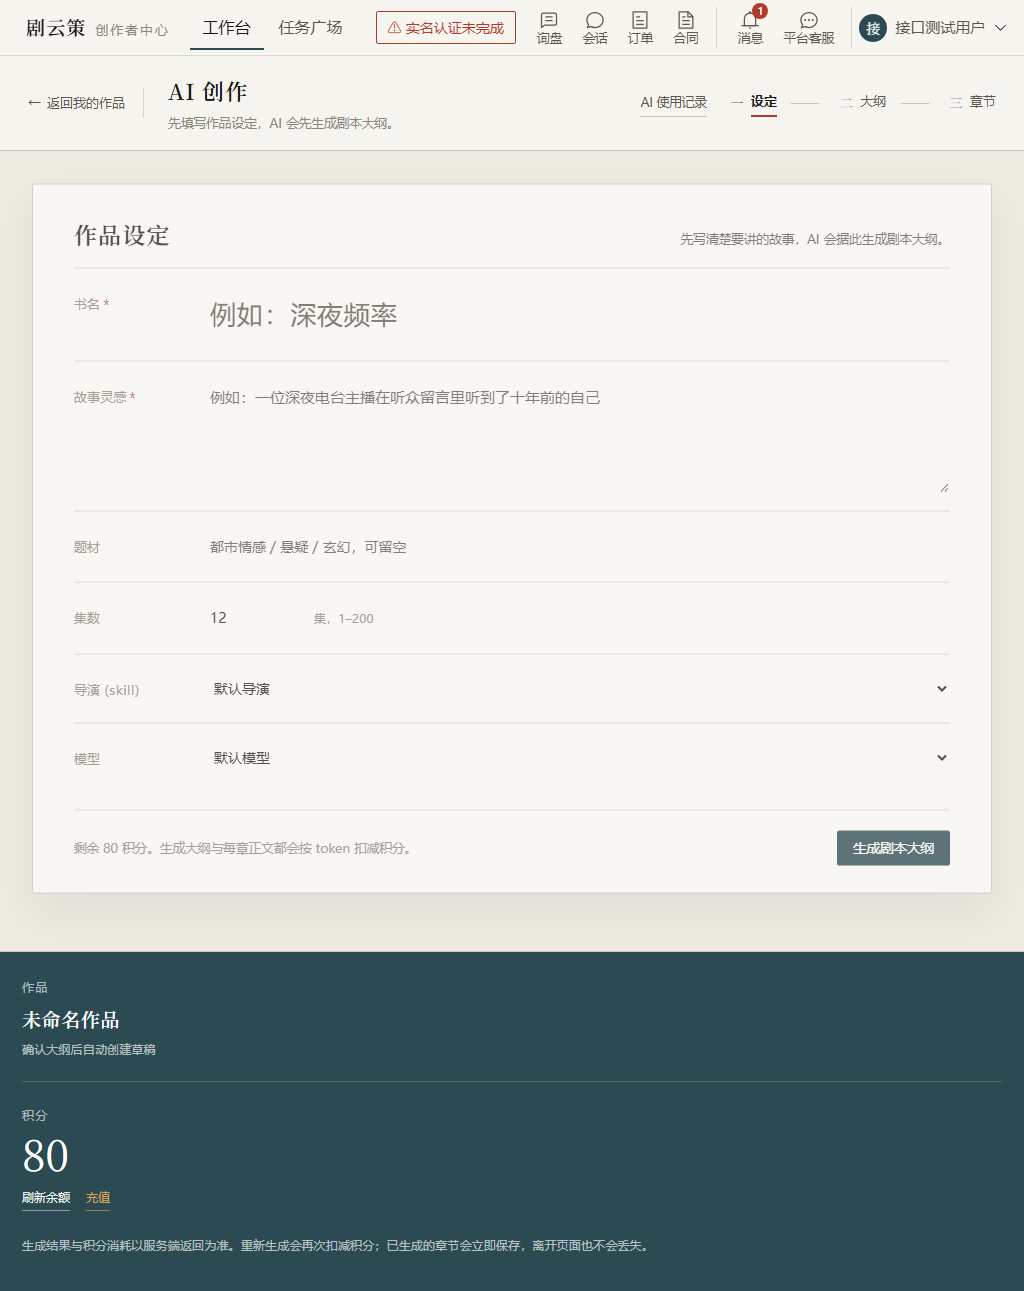
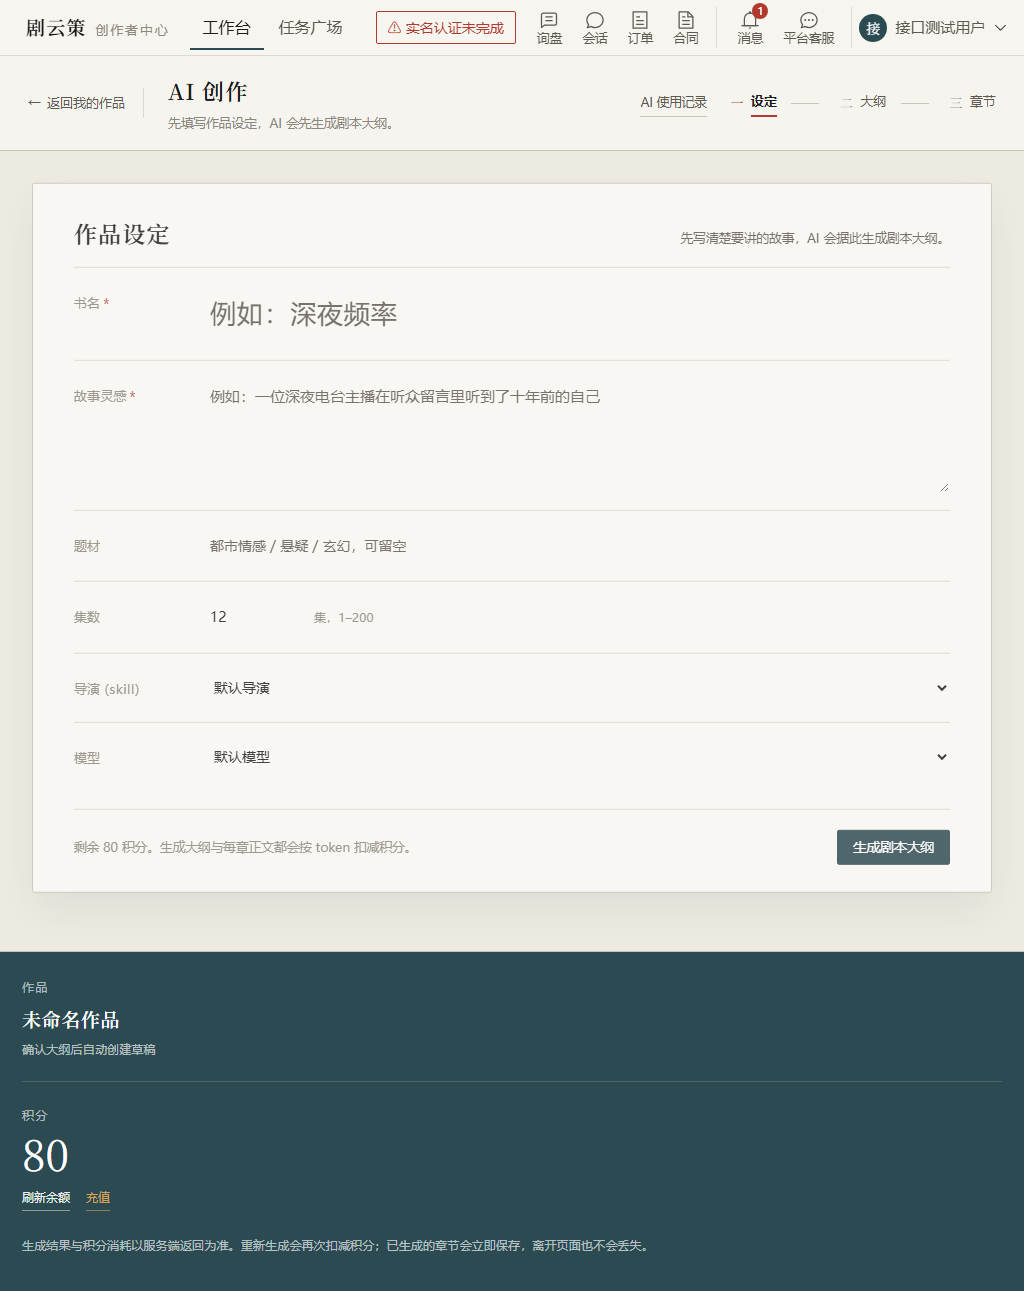
fix(creation): 「继续这次创作」移入 AI 记录展开详情
收起行不再显示该操作，展开记录后在输入/输出下方提供；
同时更新冒烟断言与设计说明。

diff --git a/src/views/works/AiCreate.vue b/src/views/works/AiCreate.vue
@@ -267,12 +267,15 @@
                 <time>{{ dateText(record.createdAt) }}</time>
                 <span class="history-tokens">{{ record.tokens === null || record.tokens === undefined ? '—' : record.tokens + ' token' }}</span>
               </button>
-              <button v-if="!manageMode && record.type === 'outline' && parseAiCreateOutlineInput(record.input)" type="button" class="btn quiet sm history-continue" @click="continueSession(record)">继续这次创作</button>
             </div>
             <div v-if="!manageMode && historyExpanded.has(record.recordId)" class="history-detail">
               <template v-if="record.input"><h4>我的输入</h4><pre>{{ record.input }}</pre></template>
               <template v-if="record.output"><h4>AI 输出</h4><pre>{{ record.output }}</pre></template>
               <p v-if="!record.input && !record.output" class="cost">这条记录没有留存输入输出。</p>
+              <div v-if="record.type === 'outline' && parseAiCreateOutlineInput(record.input)" class="history-detail-actions">
+                <button class="btn sm" type="button" @click="continueSession(record)">继续这次创作</button>
+                <span class="cost">恢复这次的书名、灵感、大纲和之后生成的章节</span>
+              </div>
             </div>
           </li>
         </ol>
@@ -1023,9 +1026,9 @@ onBeforeUnmount(() => {
 :global(.btn.danger) { background: var(--cinnabar); border-color: var(--cinnabar); color: #fff; }
 :global(.btn.danger:hover) { opacity: .88; }
 :global(.history-entry) { position: relative; }
-:global(.history-continue) { position: absolute; right: 2px; bottom: 8px; }
 :global(.history-detail) { padding: 2px 2px 16px; }
 :global(.history-detail h4) { margin: 10px 0 6px; font-size: 11.5px; font-weight: 600; color: var(--ink-2); letter-spacing: .04em; }
+:global(.history-detail-actions) { display: flex; align-items: center; gap: 12px; flex-wrap: wrap; margin-top: 12px; padding-top: 12px; border-top: 1px dashed var(--rule); }
 :global(.history-detail pre) { margin: 0; max-height: 220px; overflow: auto; padding: 12px 14px; background: var(--paper); border: 1px solid var(--rule); font-family: var(--sans); font-size: 12.5px; line-height: 1.8; white-space: pre-wrap; word-break: break-word; color: var(--ink-2); scrollbar-width: thin; }
 
 @media (prefers-reduced-motion: reduce) {

diff --git a/docs/superpowers/specs/2026-11-09-ai-creation-flow-design.md b/docs/superpowers/specs/2026-11-09-ai-creation-flow-design.md
@@ -48,7 +48,7 @@
 
 抽屉右上「记录管理」进入多选模式：可逐条勾选或全选，底部「删除所选 N」一次删除；删除走新增的 `DELETE /api/v1/content/ai/write-records`（body `{recordIds}`），服务端强制 `user_id = 当前登录身份`，只删自己的记录，越权 ID 静默无效；作品与章节不受影响。退出多选或关闭抽屉即清空选择。
 
-大纲记录带「继续这次创作」：`buildAiCreateSession()` 读取这条大纲的输入（书名、灵感、题材、集数）还原设定，并按 recordId 找出它之后生成的章节记录，把大纲与正文一起带回页面（直接进入章节步骤）。恢复的章节是只读预览（标记「来自 AI 使用记录」），不会重复落库；点「插入到文章并进入编辑」时才创建作品并逐章保存。
+大纲记录展开后在详情底部带「继续这次创作」（收起行不占位）：`buildAiCreateSession()` 读取这条大纲的输入（书名、灵感、题材、集数）还原设定，并按 recordId 找出它之后生成的章节记录，把大纲与正文一起带回页面（直接进入章节步骤）。恢复的章节是只读预览（标记「来自 AI 使用记录」），不会重复落库；点「插入到文章并进入编辑」时才创建作品并逐章保存。
 
 ## 失败与离开
 
